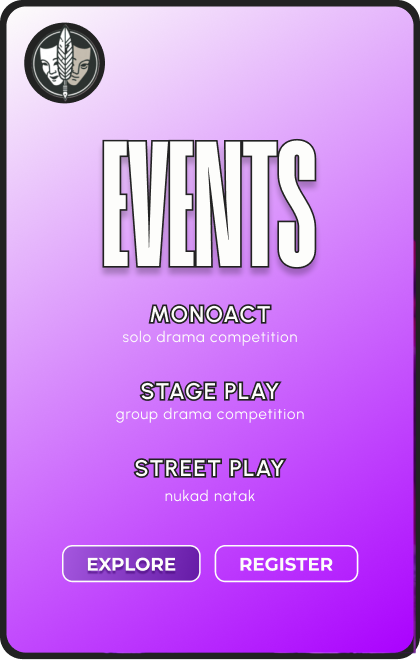
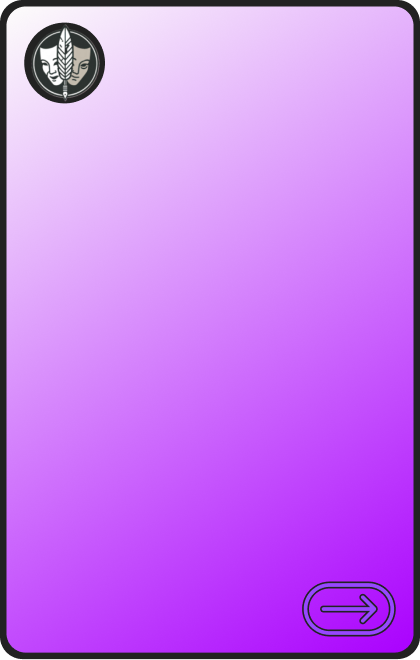
Updated event card data

diff --git a/src/Components/HomePage/EventSection/EventsSection.jsx b/src/Components/HomePage/EventSection/EventsSection.jsx
@@ -2,12 +2,8 @@ import React, { useEffect, useRef, useState } from 'react';
 import './eventssection.css';
 import tl from '/assets/HomePage/Events/tl.png';
 import subtxt from '/assets/HomePage/Events/subtxt.png';
-import cb1 from '/assets/HomePage/Events/cb3.png';
-import cb2 from '/assets/HomePage/Events/cb3.png';
-import cb3 from '/assets/HomePage/Events/cb3.png';
-import cb4 from '/assets/HomePage/Events/cb3.png';
-import cb5 from '/assets/HomePage/Events/cb3.png';
-import cb6 from '/assets/HomePage/Events/cb3.png';
+import head from '/assets/HomePage/Events/head.png';
+import { eventData } from './eventsData';
 
 const EventsSection = () => {
     const sectionRef = useRef(null);
@@ -85,8 +81,6 @@ const EventsSection = () => {
         return card ? card.offsetWidth : 0;
     };
 
-    const cardImages = [cb1, cb2, cb3, cb4, cb5, cb6];
-
     return (
         <div className="events-section" id="event" ref={sectionRef}>
             <div className="title">
@@ -98,15 +92,37 @@ const EventsSection = () => {
                     &#8249;
                 </button>
                 <div className="card-scroll-container" ref={scrollContainerRef}>
-                    {cardImages.map((image, i) => (
+                    {eventData.map(({ cardId, gradient, events, exploreLink }) => (
                         <div
-                            key={i}
-                            className={`card card-${i + 1} ${flippedCards[i] ? 'flipped' : ''}`}
-                            onClick={() => handleCardClick(i)}
+                            key={cardId}
+                            className={`card card-${cardId} ${flippedCards[cardId] ? 'flipped' : ''}`}
+                            onClick={() => handleCardClick(cardId)}
                         >
                             <div className="card-inner">
-                                <div className={`card-front cf${i + 1} ch${i + 1}`}></div>
-                                <img src={image} alt="" className={`card-back cb${i + 1}`} />
+                                <div className={`card-front cf${cardId} ch${cardId}`}></div>
+                                <div className={`card-back cb${cardId}`}>
+                                    <div className="details">
+                                        <img src={head} alt="Events" className="event-head" />
+                                        <div className="evnt">
+                                            {events.map((event, idx) => (
+                                                <div key={idx}>
+                                                    <h4 className="evnt-name">{event.name}</h4>
+                                                    <p className="evnt-desc">{event.desc}</p>
+                                                </div>
+                                            ))}
+                                        </div>
+                                        <div className="flex flex-row justify-evenly items-center w-full">
+                                            <a href="/event" style={{ background: gradient }} rel="noopener noreferrer">
+                                                <button>
+                                                    EXPLORE
+                                                </button>
+                                            </a>
+                                            <a href={exploreLink} target="_blank" rel="noopener noreferrer">
+                                                <button>REGISTER</button>
+                                            </a>
+                                        </div>
+                                    </div>
+                                </div>
                             </div>
                         </div>
                     ))}

diff --git a/src/Components/HomePage/EventSection/eventssection.css b/src/Components/HomePage/EventSection/eventssection.css
@@ -62,7 +62,6 @@
 .events-section .card {
     height: 100%;
     perspective: 1000px;
-    cursor: pointer;
     scroll-snap-align: center;
     border-radius: 18px;
 }
@@ -106,6 +105,7 @@
 .events-section .card-front {
     transition: background-image 1s ease, box-shadow 1s ease;
     background-size: cover;
+    cursor: pointer;
 }
 
 .events-section .card:hover .card-front {
@@ -117,6 +117,62 @@
     color: #fff;
     transform: rotateY(180deg);
     transition: box-shadow 1s ease;
+    background-size: cover;
+}
+
+.events-section .card-back .details {
+    display: flex;
+    flex-direction: column;
+    justify-content: center;
+    align-items: center;
+    height: 100%;
+    padding: 1rem;
+}
+
+.events-section .card-back .details .event-head {
+    width: 60%;
+    margin-right: auto;
+    margin-left: auto;
+}
+
+.events-section .card-back .details .evnt {
+    margin-top: 20px;
+    margin-bottom: 20px;
+    text-align: center;
+}
+
+.events-section .card-back .details .evnt .evnt-name {
+    font-size: 23px;
+    line-height: 23px;
+    font-weight: 900;
+    -webkit-text-stroke: 1px black;
+    -webkit-text-fill-color: white;
+    font-family: "Urbanist", sans-serif;
+    text-transform: uppercase;
+}
+
+
+.events-section .card-back .details .evnt .evnt-desc {
+    font-size: 15px;
+    line-height: 20px;
+    margin-bottom: 15px;
+}
+
+.events-section .card-back .details a {
+    width: 40%;
+    font-size: 12px;
+    font-weight: 600;
+    padding: 2px;
+    border: 1px solid white;
+    border-radius: 5px;
+    display: flex;
+    justify-content: center;
+    align-items: center;
+    cursor: pointer;
+}
+
+.events-section .card-back .details button:nth-child(2) {
+    background: transparent;
 }
 
 .events-section .scroll-button {
@@ -172,6 +228,15 @@
     .events-section .card-4,
     .events-section .card-5 {
         margin-right: 40px;
+    }
+
+    .events-section .card-back .details .evnt .evnt-name {
+        font-size: 16px;
+    }
+
+    .events-section .card-back .details .evnt .evnt-desc {
+        margin-bottom: 5px;
+        font-size: 12px;
     }
 
     .events-section .scroll-button {
@@ -295,4 +360,28 @@
 .events-section .cf6:hover,
 .events-section .cb6:hover {
     box-shadow: 0 0 30px #faf100;
+}
+
+.events-section .card-1 .cb1 {
+    background-image: url("../../../assets/HomePage/Events/cb1.png");
+}
+
+.events-section .card-2 .cb2 {
+    background-image: url("../../../assets/HomePage/Events/cb2.png");
+}
+
+.events-section .card-3 .cb3 {
+    background-image: url("../../../assets/HomePage/Events/cb3.png");
+}
+
+.events-section .card-4 .cb4 {
+    background-image: url("../../../assets/HomePage/Events/cb4.png");
+}
+
+.events-section .card-5 .cb5 {
+    background-image: url("../../../assets/HomePage/Events/cb5.png");
+}
+
+.events-section .card-6 .cb6 {
+    background-image: url("../../../assets/HomePage/Events/cb6.png");
 }

diff --git a/src/Components/HomePage/EventSection/eventsData.js b/src/Components/HomePage/EventSection/eventsData.js
@@ -1,0 +1,58 @@
+export const eventData = [
+    {
+        cardId: 1,
+        gradient: "linear-gradient(90deg, #fe6d3b, #FE5013)",
+        events: [
+            { name: "Innovation", desc: "Tech innovations and applications" },
+            { name: "AI", desc: "Transforming industries with AI" },
+        ],
+        exploreLink: "https://unstop.com/"
+    },
+    {
+        cardId: 2,
+        gradient: "linear-gradient(90deg, #fc529c, #FF006E)",
+        events: [
+            { name: "Marketing", desc: "Effective strategies for startups" },
+            { name: "Branding", desc: "Building personal brands online" },
+        ],
+        exploreLink: "https://unstop.com/"
+    },
+    {
+        cardId: 3,
+        gradient: "linear-gradient(90deg, #A658E0, #641AA5)",
+        events: [
+            { name: "Pitch", desc: "Compete and showcase startups" },
+        ],
+        exploreLink: "https://unstop.com/"
+    },
+    {
+        cardId: 4,
+        gradient: "linear-gradient(90deg, #5d6cd3, #2237C6)",
+        events: [
+            { name: "Cybersecurity", desc: "Intro to protecting data" },
+            { name: "Privacy", desc: "Ethics of digital privacy" },
+            { name: "Protection", desc: "Securing data and systems" },
+        ],
+        exploreLink: "https://unstop.com/"
+    },
+    {
+        cardId: 5,
+        gradient: "linear-gradient(90deg, #32CD32, #228B22)",
+        events: [
+            { name: "Sustainability", desc: "Eco-friendly innovations" },
+            { name: "Energy", desc: "Exploring renewable sources" },
+            { name: "Waste", desc: "Reducing waste in industries" },
+        ],
+        exploreLink: "https://unstop.com/"
+    },
+    {
+        cardId: 6,
+        gradient: "linear-gradient(90deg, #f0ea40, #d0c903)",
+        events: [
+            { name: "Leadership", desc: "Master leadership skills" },
+            { name: "Negotiation", desc: "Enhance your negotiation tactics" },
+            { name: "Conflict", desc: "Resolving team conflicts effectively" },
+        ],
+        exploreLink: "https://unstop.com/"
+    },
+];
